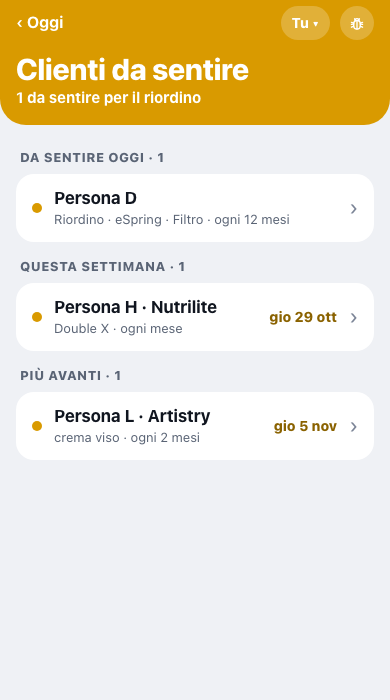
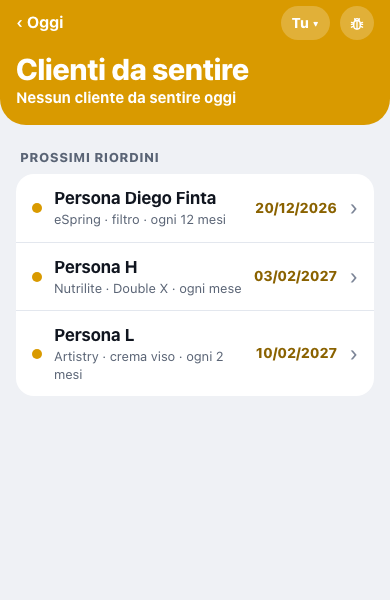
Nota Pagine 098 (Ignazio 26/10, «sì»): Clienti con «Prossimi riordini» (i prossimi 5, senza limite di giorni, data con l'anno) e solo «Nessun cliente da sentire oggi» senza il prossimo

diff --git a/pagina-oggi.js b/pagina-oggi.js
@@ -148,7 +148,7 @@ function o5Traguardo() {
 function o5Clienti() {
   const n = RIO.righe.length, nome = a => o5Primo(a.contatti ? a.contatti.nome : '');
   if (!n && !RIO.prossimo) return '';
-  const sotto = n ? `da sentire · ${nome(RIO.righe[0])}` : `il prossimo: ${nome(RIO.prossimo)}, ${o5Giorno(RIO.prossimo.inizio).split(' alle ')[0]}`;
+  const sotto = n ? `da sentire · ${nome(RIO.righe[0])}` : 'Nessun cliente da sentire oggi';   // nota 098 (Ignazio 26/10): via «il prossimo: Nome, giorno»
   return `<button class="o5-r o5-mezzo o5-clienti" data-o5="clienti"><span class="o5-tit">${ic('vendite')} CLIENTI</span>
     <span><span class="o5-num">${n || ''}</span><span class="o5-riga">${esc(sotto)}</span></span></button>`;
 }
@@ -427,37 +427,33 @@ function testaCheckV5(titolo, sotto) {
     <div class="v5-titolo"><div><h1>${esc(titolo)}</h1>${sotto ? `<span>${esc(sotto)}</span>` : ''}</div></div>${schede}</div>`;
 }
 
-// Nota 098 (Ignazio 26/10, «sì, senza 4»): sotto quelli di oggi, i riordini dei prossimi 30 giorni (RIO.futuri, dalle vendite già lette) in «Questa settimana»
-// e «Più avanti»: «Nome · Marca», sotto «prodotto · ogni N mesi», a destra la data in oro; il tocco apre il contatto (le telefonate di quei giorni si fanno quel giorno)
+// Nota 098 (Ignazio 26/10, «sì, senza 4», poi «sì» alla correzione): sotto quelli di oggi, «Prossimi riordini», i prossimi 5 dopo oggi (RIO.futuri, dalle vendite già
+// lette, senza limite di giorni, i più vicini prima): nome e cognome, sotto «marca · prodotto · ogni N mesi», a destra la data con l'anno in oro; il tocco apre il contatto
 function clientiFuturiV5() {
-  const f = (typeof RIO !== 'undefined' && RIO.futuri) || [];
+  const f = ((typeof RIO !== 'undefined' && RIO.futuri) || []).slice(0, 5);
   if (!f.length) return '';
-  const A = MB21Agenda, dom = A.settimana(ST.oggi)[6], giorno = a => A.partiRoma(a.inizio).giorno;
-  const data = g => new Date(g + 'T12:00:00Z').toLocaleDateString('it-IT', { weekday: 'short', day: 'numeric', month: 'short', timeZone: 'UTC' }).replace(/\.$/, '');
   const riga = a => `<button class="c5-riga" data-cliente-futuro="${esc(a.contatto_id)}"><span class="c5-pallino" style="background:var(--cat-cliente)"></span>
-      <span class="c5-testo"><b>${esc([a.contatti ? a.contatti.nome : '', a.brand].filter(Boolean).join(' · '))}</b><small>${esc([a.prodotto, a.ogni].filter(Boolean).join(' · '))}</small></span>
-      <span class="cl5-data">${esc(data(giorno(a)))}</span><em>›</em></button>`;
-  const sett = f.filter(a => giorno(a) <= dom), poi = f.filter(a => giorno(a) > dom);
-  return (sett.length ? `<div class="c5-gruppo">Questa settimana · ${sett.length}</div><div class="c5-elenco">${sett.map(riga).join('')}</div>` : '')
-    + (poi.length ? `<div class="c5-gruppo">Più avanti · ${poi.length}</div><div class="c5-elenco">${poi.map(riga).join('')}</div>` : '');
+      <span class="c5-testo"><b>${esc(a.contatti ? a.contatti.nome : '')}</b><small>${esc([a.brand, a.prodotto, a.ogni].filter(Boolean).join(' · '))}</small></span>
+      <span class="cl5-data">${esc(MB21Lista.data(a.inizio))}</span><em>›</em></button>`;
+  return `<div class="c5-gruppo">Prossimi riordini</div><div class="c5-elenco">${f.map(riga).join('')}</div>`;
 }
 
 // ── v5, sesta pagina: «Clienti da sentire» (Regia 26/10; Ignazio: «Clienti» al posto di «Riordini»; solo la veste) ──
 // I riordini da sentire di adesso (RIO.righe, le stesse righe di «Contatti del giorno»: elencoDiOggi, motivo 'rio'), con la testata oro dei Clienti.
 // Il tocco apre la scheda di adesso (la card del riordino con i suoi esiti, collegaRiordini); dopo l'esito, e con «‹ Clienti», si torna qui (LV.daClienti).
-// Senza riordini da sentire la riga sotto il titolo dice il prossimo (RIO.prossimo, dalle vendite già lette). Nessuna lettura nuova.
+// Senza riordini da sentire la riga sotto il titolo dice «Nessun cliente da sentire oggi» (nota 098); i prossimi stanno in «Prossimi riordini». Nessuna lettura nuova.
 function disegnaClientiV5() {
   const e = elencoDiOggi(), rio = e.gruppi.flatMap(g => g.righe).filter(x => x.motivo === 'rio'), fatte = LV.fatte.filter(x => x.tipo === 'rio');
-  const n = rio.length, prossimo = RIO.prossimo;
+  const n = rio.length;
   const sotto = n ? `${n === 1 ? '1 da sentire' : `${n} da sentire`} per il riordino`
-    : prossimo ? `Nessuno da sentire oggi · il prossimo: ${o5Primo(prossimo.contatti ? prossimo.contatti.nome : '')}, ${o5Giorno(prossimo.inizio).split(' alle ')[0]}` : 'Nessun riordino in vista';
+    : 'Nessun cliente da sentire oggi';   // nota 098 (Ignazio 26/10): solo questo, via «il prossimo: Nome, giorno»
   app.innerHTML = `<div class="v5-testa" style="--zc:var(--z-clienti)"><div class="v5-su"><button class="v5-indietro" id="lv-indietro">‹ Oggi</button>
       <div class="o5-dx">${chipPartnerSelect()}<button class="v5-fb" id="o5-feedback" aria-label="Invia Feedback">${ic('segnala')}</button></div></div>
     <div class="v5-titolo"><div><h1>Clienti da sentire</h1><span>${esc(sotto)}</span></div></div></div>
     <div class="c5-corpo">${n ? `<div class="c5-gruppo">Da sentire oggi · ${n}</div><div class="c5-elenco">${rio.map(rigaElencoV5).join('')}</div>` : ''}
       ${fatte.length ? `<div class="c5-gruppo">Già sentiti oggi · ${fatte.length}</div><div class="c5-elenco">${fatte.map(x =>
         `<div class="c5-riga fatta"><span class="c5-spunta">${ic('fatto')}</span><span class="c5-testo"><b>${esc(x.nome)}</b><small>fatto</small></span></div>`).join('')}</div>` : ''}
-      ${!n && !fatte.length ? `<div class="vuoto">Per oggi nessun cliente da sentire per il riordino.</div>` : ''}${clientiFuturiV5()}</div>` + versione();
+      ${clientiFuturiV5()}</div>` + versione();   // nota 098: senza clienti oggi lo dice già la testata
   app.querySelectorAll('[data-cliente-futuro]').forEach(b => b.onclick = () => apriContattoDa(b.dataset.clienteFuturo, 'oggi'));   // nota 098: il contatto
   app.querySelectorAll('[data-lv-persona]').forEach(b => b.onclick = () => { ST.aperta = b.dataset.lvPersona.split('|')[1]; vaiLV('persona', { persona: b.dataset.lvPersona, daClienti: true }); });
   attaccaIndietroLV();
@@ -527,18 +523,11 @@ function schedaInPiuV5(contattoId, cat, dato) {
     : prossimo ? `<b>${esc(prossimo.modalita || prossimo.tipo_azione)} · ${esc(o5Giorno(quando(prossimo)))}</b>` : '<b>Niente in agenda</b>'}${pm ? tracciaAperturaV5(contattoId) : ''}<div id="p5-cose"></div></div>`;
   // Ignazio 26/10: in «Le ultime volte» la data sempre con l'anno («14/10/2026»: «è importante sapere quando ho chiamato l'ultima volta»)
   const boxUltime = righe && ultime.length ? `<div class="p5-box p5-ultime"><span class="p5-tit">Le ultime volte</span>${ultime.map(r => `<div><span>${esc(cosa(r))}</span><small>${esc(MB21Lista.data(r.inizio))}</small></div>`).join('')}</div>` : '';
-  // nota 098 (Ignazio 26/10, «sì»): per un Cliente «Prossimo riordino · martedì 27 · eSpring», dai riordini già letti (RIO: quelli di oggi e dei prossimi 30 giorni)
+  // nota 098 (Ignazio 26/10, «sì»): per un Cliente «Prossimo riordino · 20/12/2026 · eSpring» (la data con l'anno), dai riordini già letti (RIO: quelli di oggi e dopo)
   const rio = cat === 'Cliente' && typeof RIO !== 'undefined' ? [...(RIO.righe || []), ...(RIO.futuri || [])].filter(r => r.contatto_id === contattoId && r.inizio)
     .sort((p, q) => Date.parse(p.inizio) - Date.parse(q.inizio))[0] : null;
-  const boxRiordino = rio ? `<div class="p5-box p5-riordino"><span class="p5-tit">PROSSIMO RIORDINO</span><b>${esc([o5GiornoLungo(MB21Agenda.partiRoma(rio.inizio).giorno), rio.brand].filter(Boolean).join(' · '))}</b>${rio.ogni || rio.prodotto ? `<small>${esc([rio.prodotto, rio.ogni].filter(Boolean).join(' · '))}</small>` : ''}</div>` : '';
+  const boxRiordino = rio ? `<div class="p5-box p5-riordino"><span class="p5-tit">PROSSIMO RIORDINO</span><b>${esc([MB21Lista.data(rio.inizio), rio.brand].filter(Boolean).join(' · '))}</b>${rio.ogni || rio.prodotto ? `<small>${esc([rio.prodotto, rio.ogni].filter(Boolean).join(' · '))}</small>` : ''}</div>` : '';
   return `${boxRiordino}<div class="p5-pila">${segni}${boxProssimo}</div>${boxUltime}`;
-}
-// «oggi» · «domani» · «martedì 27»
-function o5GiornoLungo(g) {
-  const oggi = MB21Coda.oggiRoma();
-  if (g === oggi) return 'oggi';
-  if (g === MB21Agenda.spostaGiorno(oggi, 1)) return 'domani';
-  return new Date(g + 'T12:00:00Z').toLocaleDateString('it-IT', { weekday: 'long', day: 'numeric', timeZone: 'UTC' });
 }
 // «Già sentiti oggi» in Contatti del giorno: gli esiti delle telefonate di oggi (nome, categoria, esito); null finché non arrivano (allora resta l'elenco di prima)
 function sentitiOggiV5() {

diff --git a/tools/banco/prova_oggi_v5.js b/tools/banco/prova_oggi_v5.js
@@ -132,7 +132,8 @@ prova('095: Clienti e Mappa a metà — riordini da sentire (o il prossimo; senz
   W.app.clic('.o5-clienti'); W.app.clic('.o5-mappa');
   assert.deepEqual(JSON.parse(JSON.stringify(W.vai.filter(x => typeof x !== 'string'))), [['lv', 'clienti', null], ['tab', 'mappa']]);
   const P = mondo({ prossimo: { contatti: { nome: 'Persona E' }, inizio: '2026-10-29T08:00:00Z' } }); P.ctx.disegna();
-  assert.match(testo(P.app.innerHTML), /il prossimo: Persona, gio 29\/10/);
+  assert.match(testo(P.app.innerHTML), /CLIENTI Nessun cliente da sentire oggi/);   // nota 098: via «il prossimo: Nome, giorno»
+  assert.doesNotMatch(P.app.innerHTML, /il prossimo/);
   const N = mondo(); N.ctx.disegna();
   assert.doesNotMatch(N.app.innerHTML, /o5-clienti/); assert.match(N.app.innerHTML, /<div class="o5-coppia uno">/);
 });
@@ -406,20 +407,22 @@ prova('095 Training: testata viola con «‹ Oggi», «Ciao …», «Training» 
   assert.match(IDX, /\.trn-ses-barra i \{[^}]*background: var\(--z-training\);/);
 });
 
-prova('098 Clienti (Ignazio 26/10, «sì, senza 4»): «Questa settimana» e «Più avanti» dai riordini già letti, «Nome · Marca», «prodotto · ogni N mesi», data in oro; il tocco apre il contatto', () => {
+prova('098 Clienti (Ignazio 26/10, correzione «sì»): «Prossimi riordini», i prossimi 5 senza limite di giorni (il caso del 26/10: niente oggi, il primo fra 55 giorni), nome e cognome, marca · prodotto · ogni N mesi, data con l\'anno; il tocco apre il contatto', () => {
   const W = mondoContatti(); const aperti = [];
   W.ctx.elencoDiOggi = () => ({ gruppi: [], fatti: 0, totale: 0 }); W.ctx.apriContattoDa = (id, da) => aperti.push([id, da]);
-  const q = A.isoDaRoma;
-  W.ctx.RIO.futuri = [{ id: 'f1', contatto_id: 'kD', inizio: q('2026-10-27', '10:00'), brand: 'eSpring', prodotto: 'filtro', ogni: 'ogni 12 mesi', contatti: { nome: 'Persona D' } },
-    { id: 'f2', contatto_id: 'kL', inizio: q('2026-11-05', '10:00'), brand: 'Artistry', prodotto: 'crema viso', ogni: 'ogni 2 mesi', contatti: { nome: 'Persona L' } }];
-  W.ctx.ST.oggi = '2026-10-26';   // lunedì: la settimana va fino a domenica 1 novembre
+  const q = A.isoDaRoma, f = (id, nome, giorno, brand, prodotto, ogni) => ({ id, contatto_id: 'k' + id, inizio: q(giorno, '10:00'), brand, prodotto, ogni, contatti: { nome } });
+  W.ctx.RIO.futuri = [f('1', 'Persona Diego Finta', '2026-12-20', 'eSpring', 'filtro', 'ogni 12 mesi'), f('2', 'Persona H Finta', '2027-02-03', 'Nutrilite', 'Double X', ''),
+    f('3', 'Persona I', '2027-02-10', 'Artistry', 'crema', 'ogni 2 mesi'), f('4', 'Persona J', '2027-03-01', 'Home', 'SA8', ''), f('5', 'Persona K', '2027-03-02', 'Persona', 'rossetto', ''), f('6', 'Persona L', '2027-04-01', 'eSpring', 'filtro', '')];
+  W.ctx.ST.oggi = '2026-10-26';
   vm.runInContext('this.clienti = disegnaClientiV5;', W.ctx); W.ctx.clienti();
   const t = testo(W.app.innerHTML);
-  assert.match(t, /Questa settimana · 1 Persona D · eSpring filtro · ogni 12 mesi mar 27 ott ›/);
-  assert.match(t, /Più avanti · 1 Persona L · Artistry crema viso · ogni 2 mesi gio 5 nov ›/);
-  assert.match(W.app.innerHTML, /<span class="cl5-data">/);
-  W.app.clic('[data-cliente-futuro="kL"]');
-  assert.deepEqual(aperti, [['kL', 'oggi']]);
+  assert.match(t, /Clienti da sentire Nessun cliente da sentire oggi Prossimi riordini Persona Diego Finta eSpring · filtro · ogni 12 mesi 20\/12\/2026 › Persona H Finta Nutrilite · Double X 03\/02\/2027 ›/);
+  assert.equal((W.app.innerHTML.match(/data-cliente-futuro=/g) || []).length, 5);   // i prossimi 5
+  assert.doesNotMatch(t, /Persona L|Questa settimana|Più avanti|il prossimo/);
+  W.app.clic('[data-cliente-futuro="k2"]');
+  assert.deepEqual(aperti, [['k2', 'oggi']]);
+  // senza limite di giorni: tutti quelli dopo oggi, dal più vicino
+  assert.match(DASH, /RIO\.futuri = v\.data\.filter\(x => x\.azione && !x\.azione\.completata && !x\.azione\.esito && A\.partiRoma\(x\.azione\.inizio\)\.giorno > oggi\)/);
   // «ogni quanto» dalla vendita: i mesi scelti, se no quelli fra vendita (o consegna) e riordino; niente se a rottura
   const og = vm.createContext({ MB21Lista: L }); vm.runInContext(DASH.slice(DASH.indexOf('function ogniQuantoRiordino'), DASH.indexOf('\n}\n', DASH.indexOf('function ogniQuantoRiordino')) + 3) + ';this.f = ogniQuantoRiordino;', og);
   assert.equal(og.f({ riordino: '2027-10-01', durata_mesi: 12, data: '2026-10-01' }), 'ogni 12 mesi');
@@ -436,7 +439,7 @@ prova('098 nella scheda del Cliente «Prossimo riordino · … · eSpring» (dai
   W.ctx.P5 = { segni: {}, azioni: { kD: { letta: Date.now(), righe: [] } } }; W.ctx.fresco5 = () => true;
   vm.runInContext('this.inPiu = schedaInPiuV5;', W.ctx);
   const h = W.ctx.inPiu('kD', 'Cliente', { nome: 'Persona D' });
-  assert.match(testo(h), /PROSSIMO RIORDINO martedì 27 · eSpring filtro · ogni 12 mesi/);
+  assert.match(testo(h), /PROSSIMO RIORDINO 27\/10\/2026 · eSpring filtro · ogni 12 mesi/);   // la data con l'anno
   assert.doesNotMatch(h, /SEGNI VITALI/);
   assert.doesNotMatch(W.ctx.inPiu('kX', 'Prospect', { nome: 'X' }), /PROSSIMO RIORDINO/);
   assert.match(leggi('pagina-lista.js'), /\.\.\.\(c\.categoria === 'Cliente' \? \[\] : \[\['segni', 'Segni Vitali'\]\]\)\]/);
@@ -477,7 +480,8 @@ prova('095 Clienti da sentire: testata oro, «‹ Oggi», i riordini da sentire 
   // nessun riordino da sentire: il prossimo
   const P = mondoContatti(); P.ctx.elencoDiOggi = () => ({ gruppi: [], fatti: 0, totale: 0 }); P.ctx.RIO.prossimo = { contatti: { nome: 'Persona G Finta' }, inizio: '2026-10-29T08:00:00Z' };
   vm.runInContext('this.clienti = disegnaClientiV5;', P.ctx); P.ctx.clienti();
-  assert.match(testo(P.app.innerHTML), /Nessuno da sentire oggi · il prossimo: Persona, gio 29\/10 .*Per oggi nessun cliente da sentire per il riordino\./);
+  assert.match(testo(P.app.innerHTML), /Clienti da sentire Nessun cliente da sentire oggi /);   // nota 098: solo questo
+  assert.doesNotMatch(P.app.innerHTML, /il prossimo|Per oggi nessun cliente/);
   assert.match(DASH, /const padreLV = \(\) => \(LV\.vista === 'persona' && LV\.daClienti \? 'clienti' : PADRE_LV\[LV\.vista\] \|\| 'home'\);/);
   assert.match(DASH, /return vaiLV\(LV\.daClienti \? 'clienti' : 'oggi'\);/);
   assert.match(DASH, /case 'clienti': if \(typeof disegnaClientiV5 === 'function'\) disegnaClientiV5\(\);/);

diff --git a/pagina-dashboard.js b/pagina-dashboard.js
@@ -1578,7 +1578,7 @@ function disegnaAvvio() {
   });
 }
 
-const RIO = { righe: [], prossimo: null, futuri: [], nonRisponde: new Set(), spento: new Set() };   // futuri (v5, nota 098): i riordini dei prossimi 30 giorni, per «Clienti da sentire»   // prossimo (v5, riquadro Clienti di «Oggi»): il primo riordino dopo oggi
+const RIO = { righe: [], prossimo: null, futuri: [], nonRisponde: new Set(), spento: new Set() };   // futuri (v5, nota 098): i riordini dopo oggi, dal più vicino, per «Prossimi riordini» e la scheda   // prossimo (v5, riquadro Clienti di «Oggi»): il primo riordino dopo oggi
 
 // «Ordina da solo» in Dashboard (nota 043): il riquadro «N clienti ordinano da solo» e la domanda dei 7 giorni non ci sono più (V4 Vendite, 22/10:
 // al loro posto il dato del cliente «Ha un account cliente», nella sua scheda).
@@ -1597,11 +1597,11 @@ async function caricaRiordini(oggi) {
     ]);
     if (v.error || g.error) throw v.error || g.error;
     RIO.righe = A.riordiniDaSentire(v.data, oggi, g.data);
-    // nota 098 (Ignazio 26/10, «sì»): su ogni riga «ogni quanto» (dalla vendita) e la marca se la telefonata non l'ha; i riordini dei prossimi 30 giorni
+    // nota 098 (Ignazio 26/10, «sì»): su ogni riga «ogni quanto» (dalla vendita) e la marca se la telefonata non l'ha; i riordini dopo oggi, tutti (senza il limite
+    // di 30 giorni: il 26/10 il primo era fra 55 giorni e i gruppi restavano vuoti), dal più vicino
     const perAzione = new Map(v.data.filter(x => x.azione).map(x => [x.azione.id, x]));
     for (const r of RIO.righe) { const x = perAzione.get(r.id); if (x) Object.assign(r, { brand: r.brand || x.brand, ogni: ogniQuantoRiordino(x) }); }
-    const fino = A.spostaGiorno(oggi, 30);
-    RIO.futuri = v.data.filter(x => x.azione && !x.azione.completata && !x.azione.esito && A.partiRoma(x.azione.inizio).giorno > oggi && A.partiRoma(x.azione.inizio).giorno <= fino)
+    RIO.futuri = v.data.filter(x => x.azione && !x.azione.completata && !x.azione.esito && A.partiRoma(x.azione.inizio).giorno > oggi)
       .map(x => ({ ...x.azione, riordino: x.riordino, prodotto: x.prodotto, brand: x.azione.brand || x.brand, ogni: ogniQuantoRiordino(x) })).sort((x, y) => Date.parse(x.inizio) - Date.parse(y.inizio));
     // v5 (nota 095): senza riordini da sentire il riquadro Clienti di «Oggi» mostra il prossimo, dalle stesse vendite già lette (nessuna lettura in più)
     RIO.prossimo = v.data.filter(x => x.azione && !x.azione.completata && !x.azione.esito && A.partiRoma(x.azione.inizio).giorno > oggi)

diff --git a/STRUTTURA.md b/STRUTTURA.md
@@ -327,7 +327,7 @@ Funzioni: `utente_corrente()` (id in `utenti` di chi è loggato) · `is_admin()`
   - **Quarta pagina v5: il Training** (Regia 25/10 sera; solo la veste). Con `OGGI_V5` `disegnaTraining` mette in cima `testaTrainingV5` (pagina-oggi.js): testata viola con «‹ Oggi», chip del Partner Select, feedback, «Ciao <nome>», «Training» con l'icona, giorni di fila e medaglie (gli stessi tasti `data-medaglie`) e Impara · Ripassa · Studia (gli stessi `data-vista`, ordine di adesso); `collegaTestaTrainingV5` lega «‹ Oggi», feedback e chip. Sotto, il Training di adesso. Nel ripasso la barra è viola e il conto dice «3 di 15». Il riquadro di Oggi apre ancora il ripasso (`TRN.dopo = 'ripasso'`). Disegno `docs/prototipi/schizzo_training_v5_095.png`.
   - **Secondo giro (nota 098), il Training** (Ignazio 26/10, «sì»; solo con la veste v5, `trnV5()`): le schede sono **Ripassa · Impara · Studia** e il Training si apre su Ripassa se oggi ci sono carte da ripassare, se no su Impara (`apriTraining`). Il riquadro grande di Ripassa dice «15 carte da ripassare oggi · circa 5 minuti · tornano quelle che stai imparando» (più le obiezioni capitate e «Poi, se ti va, altre 15» se servono), con «Inizia il ripasso» di sempre. Sotto, **«Dove sei arrivato»** (`trnDoveArrivato`, dai dati già letti di `MB21Training.scala`): livello «1 di 7», livello · percorso di adesso, una barretta per percorso (piena = carte viste tutte o superato), «Percorso 2 di 6 · la prossima volta continui da qui in «Impara»»; il tocco porta a Impara sul percorso di adesso. Carte, test, risposte e salvataggi non cambiano; nessuna lettura nuova. Il «libro che resta scelto» è del Check. Disegno `docs/prototipi/schizzo_training_098.png`.
   - **Secondo giro (nota 098), il Check** (Ignazio 26/10, «procedi»; con la veste v5, `checkV5()`): una pagina con le schede **Giorno · Mese · Percorso** nella testata turchese (`SCHEDE_CHECK_V5` in `testaCheckV5`, `data-ck-scheda` → `vaiLV`, collegate in `collegaVistaLV`). **Giorno** = LV `ckgiorno` (`disegnaCheckGiornoLV`): «Il mio giorno» dentro la pagina, lo stesso modulo di `apriCheck({ posto, data })` (campi, letture, conti, Salva e Annulla di sempre; nella pagina «Annulla» rimette il giorno com'era e il giorno scelto resta in `LV.ckData`); ci si arriva dal riquadro «Com'è andata oggi?» di Oggi e dall'avviso della sera (`?apri=check` → `vai === 'giorno'`); guardando un altro partner o offline un avviso. Fuori dalla veste e dagli altri punti `apriCheck()` è il foglio di sempre. **Mese** (`disegnaMeseV5`): «Check · ottobre · restano N giorni», le voci di adesso (`d.schede`) in gruppi Volumi · Attività · Segni Vitali · Crescita · Squadra, con «su N», barretta e il mese prima sotto (`voceAreaHtml`, la stessa riga del dettaglio dell'area); il titolo del gruppo apre il dettaglio di adesso; poi «Apri un giorno», la fila dei giorni del mese fino a oggi (il tocco apre la scheda Giorno su quella data), «Gli ultimi 12 mesi» e gli Obiettivi. **Percorso** (`percorsoV5Html` in `disegnaTraguardoLV`): «Check · ottobre · i tuoi traguardi», «Il più vicino» e «Gli altri» (Leader 1° livello, Core con le 7 abitudini, Pacesetter) aperti con i passi a parole (`vociHtml`, la stessa lista del gradino) e le barrette; il titolo apre il gradino; sotto i livelli come prima. **Il libro resta scelto** (Ignazio: «scelto un libro, rimanga quel libro fino a quando non lo cambiamo»): in un giorno ancora da scrivere `libroDiPrima` mette il libro dell'ultimo Check scritto prima (una lettura di una riga, solo allora; vale su telefono e computer; niente di nuovo nel database); un libro già scelto non si tocca. Voci, calcoli, conti e salvataggi invariati. Prove `tools/banco/prova_check_v5.js`. Disegno `docs/prototipi/schizzo_check_098.png`.
-  - **Secondo giro (nota 098), Clienti da sentire** (Ignazio 26/10, «sì, senza 4»: il modulo unico dell'esito resta fuori, restano i 6 tasti della card del riordino). In «Clienti da sentire» (`disegnaClientiV5`): «Da sentire oggi» (quelli di adesso), «Già sentiti oggi», poi **«Questa settimana»** e **«Più avanti»** (`clientiFuturiV5`): i riordini dei prossimi 30 giorni (`RIO.futuri`, dalla stessa lettura `riordini_vendite` di `caricaRiordini`, che porta già tutte le vendite con la telefonata di riordino), «Nome · Marca», sotto «prodotto · ogni N mesi», a destra la data in oro; il tocco apre il contatto. Su ogni riga di riordino (anche in Contatti del giorno, `sottoOggi`) **ogni quanto** (`ogniQuantoRiordino`: i mesi «Fra N mesi» della vendita, se no quelli fra vendita o consegna e riordino; niente se a rottura): la lettura chiede in più marca, data, consegna, durata e «a rottura» della vendita (stessa richiesta). Nella scheda del Cliente (`schedaInPiuV5`) **«Prossimo riordino · martedì 27 · eSpring»** con prodotto e ogni quanto, dagli stessi dati. Esiti, «Ordina da solo» con l'attesa, «Apri contatto» e salvataggi invariati; nessuna vendita si registra da sola. **Un Cliente non ha i Segni Vitali** (Ignazio 26/10: «non servono a niente in un cliente»): né nella scheda v5 (già solo Partner) né nella linguetta «Segni Vitali» della scheda della Lista (`sezioniPer`). Disegno `docs/prototipi/schizzo_clienti_098.png`.
+  - **Secondo giro (nota 098), Clienti da sentire** (Ignazio 26/10, «sì, senza 4»: il modulo unico dell'esito resta fuori, restano i 6 tasti della card del riordino). In «Clienti da sentire» (`disegnaClientiV5`): «Da sentire oggi» (quelli di adesso), «Già sentiti oggi», poi **«Prossimi riordini»** (`clientiFuturiV5`; correzione di Ignazio 26/10, «sì»: prima «Questa settimana» e «Più avanti» entro 30 giorni, vuoti quando il primo era fra 55 giorni): i prossimi 5 riordini dopo oggi, senza limite di giorni, dal più vicino (`RIO.futuri`, dalla stessa lettura `riordini_vendite` di `caricaRiordini`, che porta già tutte le vendite con la telefonata di riordino): nome e cognome, sotto «marca · prodotto · ogni N mesi», a destra la data con l'anno in oro («20/12/2026»); il tocco apre il contatto. Senza clienti da sentire oggi, nella testata e nel riquadro CLIENTI di Oggi solo «Nessun cliente da sentire oggi» (via «il prossimo: Nome, giorno»). Su ogni riga di riordino (anche in Contatti del giorno, `sottoOggi`) **ogni quanto** (`ogniQuantoRiordino`: i mesi «Fra N mesi» della vendita, se no quelli fra vendita o consegna e riordino; niente se a rottura): la lettura chiede in più marca, data, consegna, durata e «a rottura» della vendita (stessa richiesta). Nella scheda del Cliente (`schedaInPiuV5`) **«Prossimo riordino · 20/12/2026 · eSpring»** (la data con l'anno) con prodotto e ogni quanto, dagli stessi dati. Esiti, «Ordina da solo» con l'attesa, «Apri contatto» e salvataggi invariati; nessuna vendita si registra da sola. **Un Cliente non ha i Segni Vitali** (Ignazio 26/10: «non servono a niente in un cliente»): né nella scheda v5 (già solo Partner) né nella linguetta «Segni Vitali» della scheda della Lista (`sezioniPer`). Disegno `docs/prototipi/schizzo_clienti_098.png`.
   - **Secondo giro (nota 098), scheda della persona e Contatti del giorno** (pacchetto approvato da Ignazio il 26/10, «sì»; «un Prospect non ha bisogno di Segni Vitali»). Si guarda e basta: tasti, fogli e salvataggi di adesso. In fondo alla scheda (`schedaInPiuV5`, pagina-oggi.js): **Segni Vitali solo per i Partner** («BBS sì · WES no» e il CEP, con la lettura della linguetta, `caricaSegni`), **Prossimo** (il prossimo appuntamento o «Niente in agenda»; sotto, dal 26/10, il **«Da fare» della persona**: la stessa funzione della scheda della Lista, `cosePersonaHtml` in pagina-lista.js con `dentro: true` — spunta, foglio della cosa, «+ Una cosa da fare» che salva in `cose_da_fare` con `contatto_id`, giorno oggi e `user_id` del proprietario; lettura `leggiCose5` tenuta in memoria; `coseDellaScheda` della Lista la chiama come prima) e **Le ultime volte** (le ultime 2 azioni, con la data sempre con l'anno, «14/10/2026», `MB21Lista.data`: Ignazio 26/10; se la riga è lunga la data va a capo, non si taglia). **La traccia di apertura** (nota 098, Ignazio 26/10: «diamo un flow di direzione e visione ben definito»): sotto un Piano Marketing a un candidato (`MB21Sharing.perChiDi` = 'ospite') la riga «Traccia di apertura · da condividere» con «Condivisa» o «condivisa ✓» (`tracciaAperturaV5`: la traccia del Media Sharing per il candidato con ordine 0; biblioteca da `leggiMateriali`, condivisioni della persona in una lettura piccola tenuta in memoria); il tocco usa la stessa scrittura della linguetta Sharing (`scriviCondivisione`/`annullaCondivisione` in pagina-sharing.js, che ora usa anche `registraCondivisione`), con «Annulla». Dalla scheda v5, dopo «PM Fissato» a un candidato, niente domanda «Hai condiviso la traccia di apertura?»: `toccaBottone` (`restaV5`) tiene aperta la scheda (`LV.restaSu`, con «✓ PM Fissato» al posto del tasto dell'esito; si azzera cambiando pagina) e poi la chat del coach come prima; dagli altri punti (Lista, Agenda, Dashboard di prima) la domanda resta, dalle ultime 5 azioni della persona (una richiesta). In Contatti del giorno **«Già sentiti oggi»** con tutti gli esiti di oggi, una riga per persona con categoria ed esito (`sentitiOggiV5`, una richiesta; finché non arriva, quelli chiusi da qui con «fatto»). Le letture si tengono in memoria (`P5`) finché non c'è una scrittura (`SCRITTURE.ultima`). Disegno `docs/prototipi/schizzo_scheda_098.png`.
   - **Terza pagina v5: l'Agenda** (Regia 25/10 sera; solo la veste). Sul telefono (`!largo()`) `testaScala(mostraOggi, dentro)` diventa `testaAgendaV5` (pagina-oggi.js): testata blu Agenda con «‹ Oggi» (`#v5-indietro`), il mese, «Agenda», «Oggi» e «+» con gli stessi id di prima (`#ag-oggi`, `#ag-nuovo` → `foglioAggiungi`), il chip del Partner Select, il feedback, Giorno · Settimana · Mese · Anno (`data-v5-scala` → `cambiaVista`, la stessa del menu) e, nel Giorno, la striscia della settimana di adesso (`striscia`). Sotto, l'Agenda resta quella di adesso (impegni, foglio del giorno, Timeline, linguette, moduli, esiti). `partnerSelectAgenda()`: la fascia grande del Partner Select solo senza la veste nuova (computer). I collegamenti nuovi in `collegaAgenda`. Il tondo del feedback si nasconde da solo dove c'è una testata v5 (`body:has(.v5-testa) #segnala`). Disegno `docs/prototipi/schizzo_agenda_v5_095.png`.
   - **Secondo giro (nota 098), il Giorno dell'Agenda in quattro gruppi** (Ignazio «sì» 26/10, proposta A; con la veste v5, telefono e computer: `giornoV5()` = `OGGI_V5`; senza, il Giorno di prima). Sotto la testata, dalla cosa più urgente (`giornoV5Html` in pagina-agenda.js), ogni gruppo col suo colore e che si apre e si chiude (`gruppoV5`, chiave `g5-…` in `sezioniChiuse`: lì vuol dire chiuso): **Da chiudere · N** (arancio scuro #C2410C, solo nel Giorno di oggi): gli impegni passati senza esito, dalla lettura di sempre `senza_esito` (`AG.passati`, al massimo `LIMITE_SENZA_ESITO`, allora «N+»), con «ieri 18:00 ›»; il tocco apre `foglioEvento` come «Da chiudere» del Programma della settimana; senza niente il gruppo non c'è. **In programma · N** (blu): gli impegni del giorno (meno quelli già in Da chiudere), spazi e ricevuti; in testa l'interruttore **Elenco · Timeline** (`modoProgramma`, ricordato sul dispositivo in `localStorage` «mb21-agenda-programma»): Elenco = `impegniHtml`, Timeline = `grigliaGiorno` in una scatola che scorre (`.a5-crono`); sul computer solo l'Elenco (la Timeline è già nella colonna destra). Il cassetto «Timeline» in fondo non c'è più con la veste v5. **Da fare · N** (verde): solo le cose del giorno (Ignazio 26/10: niente settimana ripiegata in cima, quelle della settimana stanno nella Settimana) (`coseDelGiorno`, spunta e `foglioCosa` di sempre, `collegaCose`) e in fondo «+ Una cosa da fare», che apre il campo di sempre (`nuovaCosaHtml('giorno')` con «Tipo ▾»; `AG.cosaAperta`). **Da seguire · N** (viola, solo oggi): `tracceHtml` e `mioPercorsoHtml` con i loro tasti (`collegaDaSeguireAgenda`). Sopra i gruppi restano il titolo del giorno, «Chi sento oggi?» e i compleanni. Nessuna lettura nuova. Collegamenti in `collegaGiornoV5`. Settimana, Mese e Anno come prima. Prove `tools/banco/prova_agenda_giorno_v5.js` (l'anteprima `tools/design/anteprima_agenda.js` con `globalThis.AGENDA_V5`). Disegno `docs/prototipi/schizzo_agenda_giorno_098.png`.
